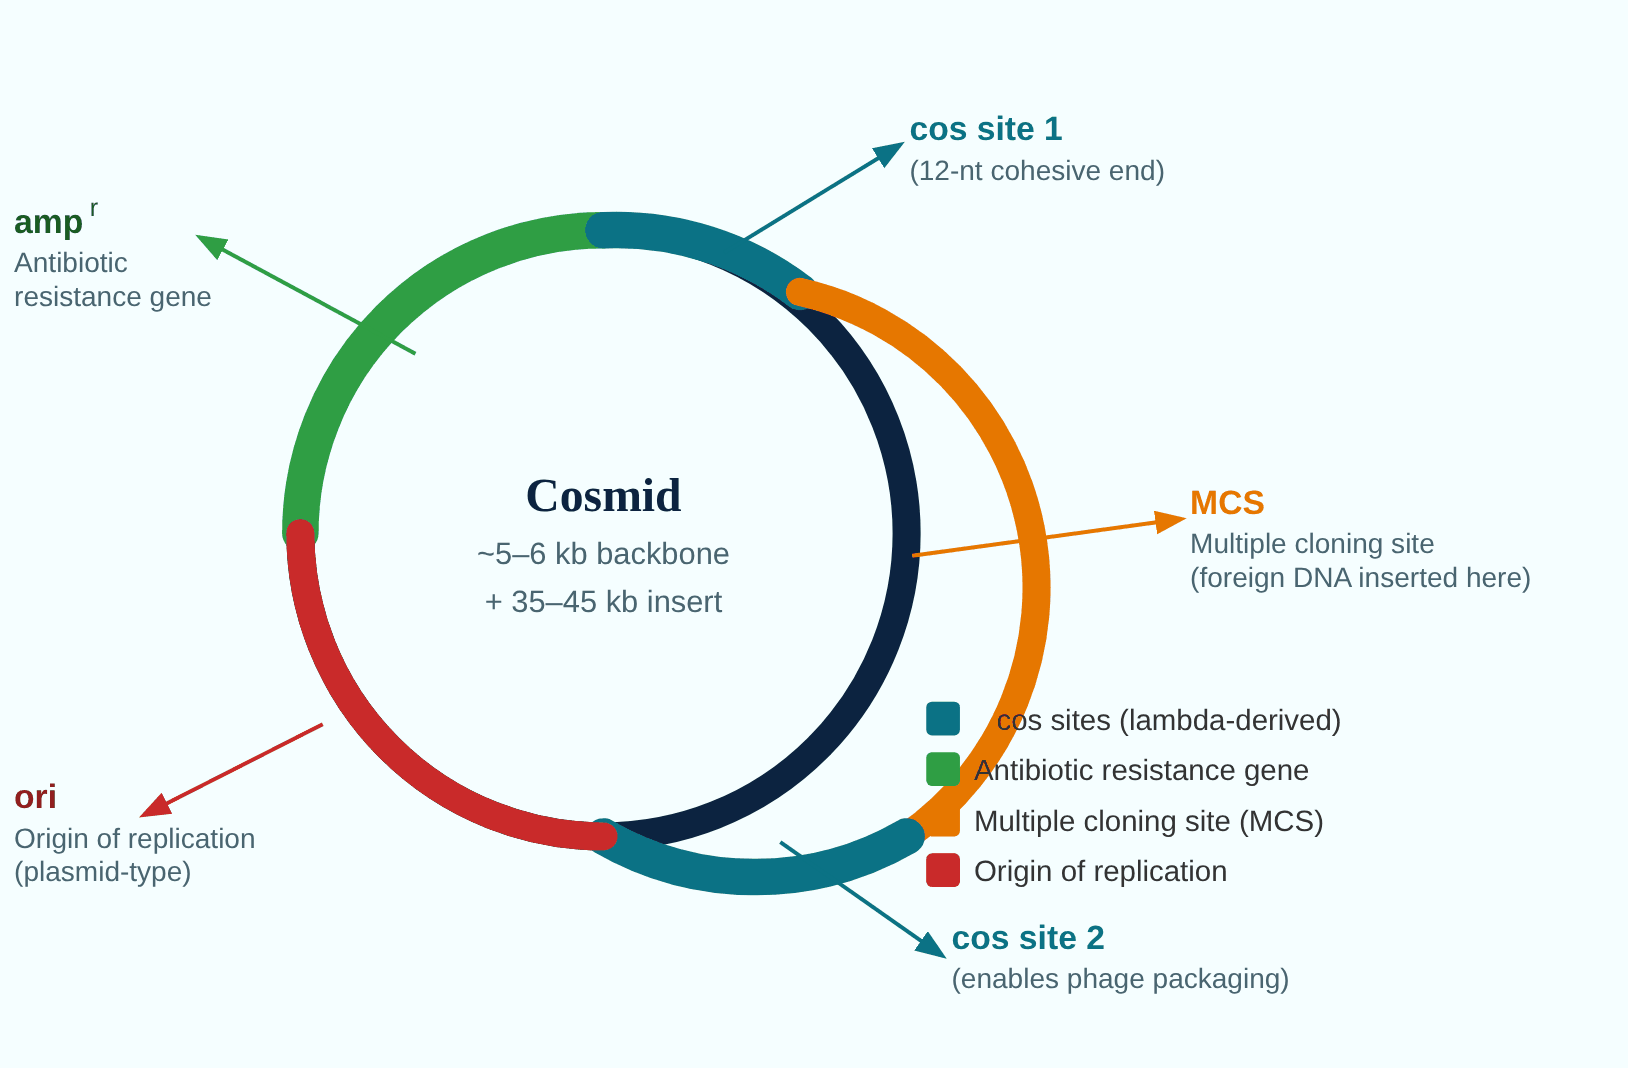
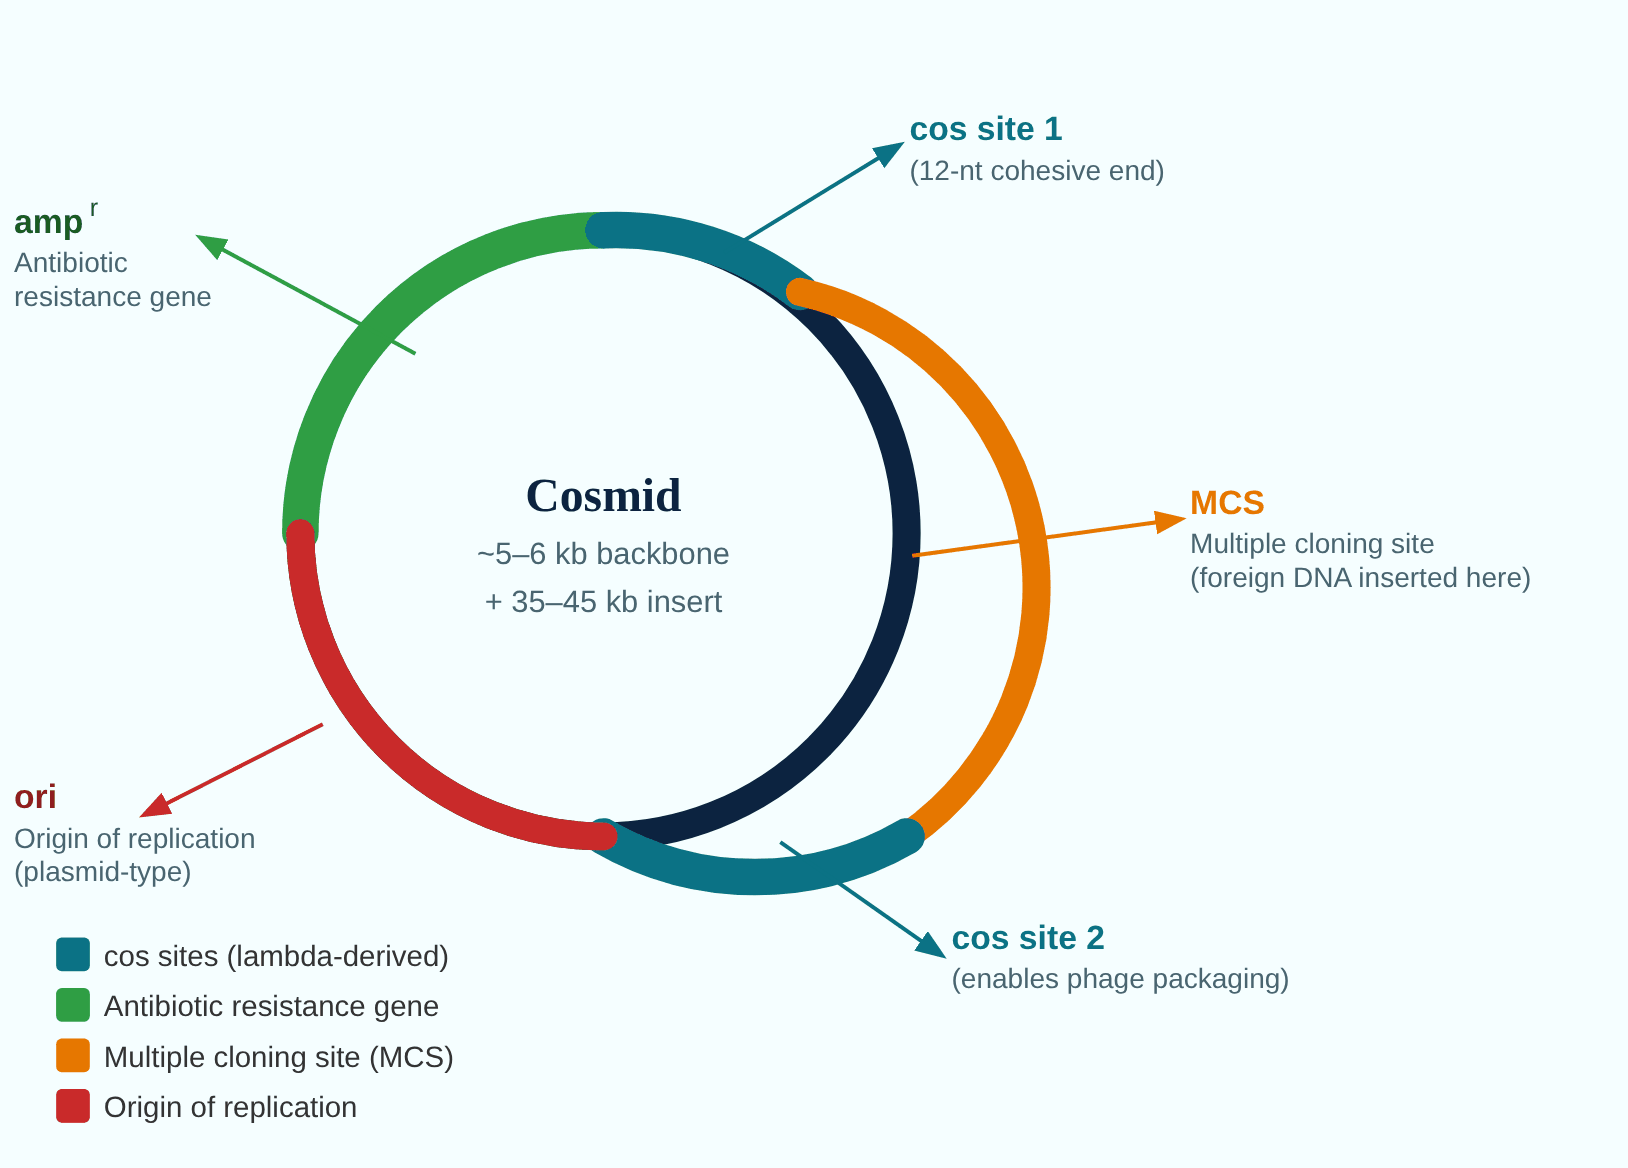
fix(diagrams): cosmid legend off the ring; cDNA second-strand labels off the bars (layout only)
Claude-Session: https://claude.ai/code/session_01Wo7Biy93fw6YCyh6drJ1WX

diff --git a/html-suite/advanced_vectors_cosmid_yac_sv40_transposons.html b/html-suite/advanced_vectors_cosmid_yac_sv40_transposons.html
@@ -729,7 +729,7 @@ footer .fa { font-size: 0.82rem; color: #4a7880; margin-top: 5px; }
        ====================================================== -->
   <div class="dtitle">Fig. 1 — Cosmid Vector Structure</div>
   <div class="dbox">
-    <svg viewBox="0 0 580 380" xmlns="http://www.w3.org/2000/svg" aria-label="Cosmid vector diagram">
+    <svg viewBox="0 0 580 416" xmlns="http://www.w3.org/2000/svg" aria-label="Cosmid vector diagram">
       <defs>
         <marker id="c1" markerWidth="8" markerHeight="8" refX="6" refY="3" orient="auto"><path d="M0,0 L0,6 L8,3 z" fill="#0b7285"/></marker>
         <marker id="c2" markerWidth="8" markerHeight="8" refX="6" refY="3" orient="auto"><path d="M0,0 L0,6 L8,3 z" fill="#2f9e44"/></marker>
@@ -791,14 +791,14 @@ footer .fa { font-size: 0.82rem; color: #4a7880; margin-top: 5px; }
       <text x="5" y="314" font-family="'Trebuchet MS',sans-serif" font-size="10" fill="#496570">(plasmid-type)</text>
 
       <!-- Legend -->
-      <rect x="330" y="250" width="12" height="12" rx="2" fill="#0b7285"/>
-      <text transform="translate(8 0)" x="347" y="260" font-family="'Trebuchet MS',sans-serif" font-size="10.5" fill="#333">cos sites (lambda-derived)</text>
-      <rect x="330" y="268" width="12" height="12" rx="2" fill="#2f9e44"/>
-      <text x="347" y="278" font-family="'Trebuchet MS',sans-serif" font-size="10.5" fill="#333">Antibiotic resistance gene</text>
-      <rect x="330" y="286" width="12" height="12" rx="2" fill="#e67700"/>
-      <text x="347" y="296" font-family="'Trebuchet MS',sans-serif" font-size="10.5" fill="#333">Multiple cloning site (MCS)</text>
-      <rect x="330" y="304" width="12" height="12" rx="2" fill="#c92a2a"/>
-      <text x="347" y="314" font-family="'Trebuchet MS',sans-serif" font-size="10.5" fill="#333">Origin of replication</text>
+      <rect x="20" y="334" width="12" height="12" rx="2" fill="#0b7285"/>
+      <text x="37" y="344" font-family="'Trebuchet MS',sans-serif" font-size="10.5" fill="#333">cos sites (lambda-derived)</text>
+      <rect x="20" y="352" width="12" height="12" rx="2" fill="#2f9e44"/>
+      <text x="37" y="362" font-family="'Trebuchet MS',sans-serif" font-size="10.5" fill="#333">Antibiotic resistance gene</text>
+      <rect x="20" y="370" width="12" height="12" rx="2" fill="#e67700"/>
+      <text x="37" y="380" font-family="'Trebuchet MS',sans-serif" font-size="10.5" fill="#333">Multiple cloning site (MCS)</text>
+      <rect x="20" y="388" width="12" height="12" rx="2" fill="#c92a2a"/>
+      <text x="37" y="398" font-family="'Trebuchet MS',sans-serif" font-size="10.5" fill="#333">Origin of replication</text>
     </svg>
   </div>
 

diff --git a/html-suite/dna_library_genomic_cdna.html b/html-suite/dna_library_genomic_cdna.html
@@ -1654,14 +1654,14 @@ var CDNA_STEPS = [
       <rect x="10" y="55" width="480" height="16" rx="0" fill="#b2e8f0" stroke="#0b6e82" stroke-width="2"/>
       <text x="5"   y="48" font-family="'Trebuchet MS',sans-serif" font-size="10" fill="#0b6e82">3'</text>
       <text x="490" y="48" font-family="'Trebuchet MS',sans-serif" font-size="10" fill="#0b6e82">5'</text>
-      <text x="240" y="67" text-anchor="middle" font-family="'Trebuchet MS',sans-serif" font-size="10" fill="#0b6e82">First-strand cDNA (template)</text>
+      <text x="240" y="43" text-anchor="middle" font-family="'Trebuchet MS',sans-serif" font-size="10" fill="#0b6e82">First-strand cDNA (template)</text>
       <!-- Base pairs marks -->
       <text x="20"  y="73" font-family="'Trebuchet MS',sans-serif" font-size="10" fill="#082032">| | | | | | | | | | | | | | | | | | | | | | | | | | | | | | | | | | | | | | | | | |</text>
       <!-- Second strand growing -->
       <rect x="10" y="73" width="480" height="16" rx="0" fill="#dbeafe" stroke="#0369a1" stroke-width="2"/>
       <text x="5"   y="93" font-family="'Trebuchet MS',sans-serif" font-size="10" fill="#0369a1">5'</text>
       <text x="490" y="93" font-family="'Trebuchet MS',sans-serif" font-size="10" fill="#0369a1">3'</text>
-      <text x="240" y="85" text-anchor="middle" font-family="'Trebuchet MS',sans-serif" font-size="10" fill="#1e3a5f">Second strand (synthesised by DNA Pol I)</text>
+      <text x="240" y="104" text-anchor="middle" font-family="'Trebuchet MS',sans-serif" font-size="10" fill="#1e3a5f">Second strand (synthesised by DNA Pol I)</text>
       <!-- Pol I -->
       <rect x="62" y="54" width="42" height="36" rx="6" fill="#d1fae5" stroke="#059669" stroke-width="2"/>
       <text x="83" y="73" text-anchor="middle" font-family="'Trebuchet MS',sans-serif" font-size="9" font-weight="700" fill="#065f46">DNA</text>
